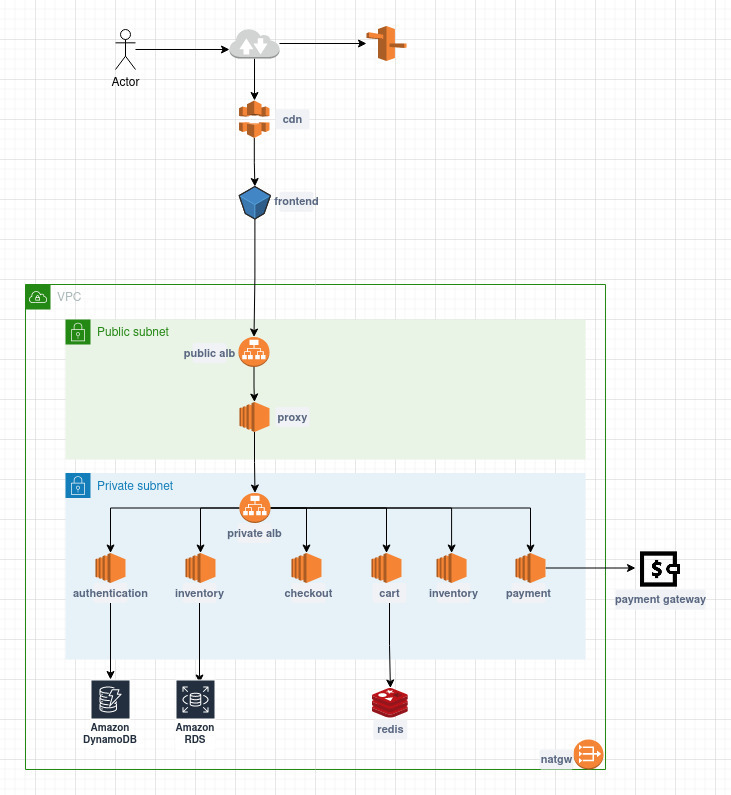
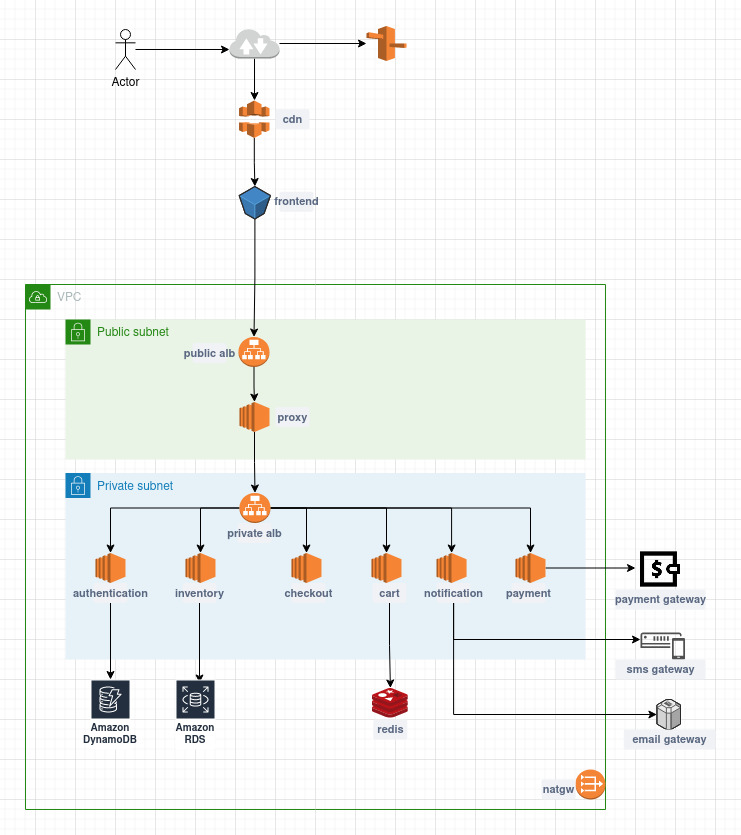
Descriptions and diagram added

diff --git a/test3/README.md b/test3/README.md
@@ -1,0 +1,92 @@
+Solution: A high available, fault tolerant and scalable cloud based solution for an e-commerce sit.
+Notations: AWS cloud resource notations are used. Cloud is prefereable as easy resource management,
+quick start, reliability, less troubleshooting. 
+
+Architecture description: (please lookinto the visual diagram as well for better understanding)
+
+VPC info:
+ There will be a vpc with 6 subnets, 3 will be private and rest 3 will be public where the selected region has 3 availibility zones. Each AZ should have one public and one private subnet. Cross zone
+ load balancing should be enabled for high availibility and reliability.
+
+
+App architecture:
+ There will be two segments of the main application, frontend and middlware. 
+
+ Frontend will be served by an S3 bucket with cloudfront in front of it. This will ensure faster
+ loading of the pages.
+
+The middleware should have in total 7 modules which will be served by 2 load balancers.
+ Modules:
+  - proxy
+  - authentication
+  - inventory
+  - checkout
+  - cart
+  - notification
+  - payment
+
+Public alb and proxy module will be in public subnets.
+The proxy module is responsible for forwarding teh requests to the private alb. Also there will be
+path based routing as well.
+
+Private alb and rest 5 modules will be in private subnets.
+Module descriptions:
+ authentication: It is responsible for authenticate an existing user or registering a new user. The
+ user info will be stored in dynamodb.
+ 
+ inventory: Will be managing the inventory by connecting the RDS, mainly CRUD operation. RDS will be served as the main inventory database.
+ 
+ checkout: Checkout is responsible for completing an e-commerce operation. It will call inventory module to update inventory, payment module to complete payment and notification module to notify the
+ user, may be email or sms etc.
+
+ cart: Will be managing carts, it will call redis to store the session.
+ 
+ notification: For sending email and sms notifications.
+
+ payment: For completing payments by connecting external payment gateways.
+
+Reliability/High availibity:
+ Load balancers are used for traffic distributions. It will be a aws autoscale based solution for high
+ availibility of the modules, which also ensures fault tolerancy and scalability as well.
+ A lot of managed services are used like RDS,dynamodb,redis for reliability and high performance.
+
+Cloud resource management: Infrastructure as code solution will be incorporated and for that
+'terraform' will be used. terreform is preferable as it is easy to use, easy to learn and lightweight.
+ Also an unique feature, terraform keeps a statefile to track the defined resources, it checks the cloud resources against the statefile before making any changes which sometimes helps to avoid anomalies. 
+
+CI/CD
+ Tool: jenkins. It is flexible, platform independant and easy to deploy.
+ Deployment strategy(In descending order):
+  Two seperate repo will be used for infra code and mw code. Different branches should be kept in 
+  infra repo for maintaining different env (prod, dev, stg etc), MW code will be checked out from a
+  release tag. Blue green deployment strategy will be followed. For rollback, terraform can be used
+  in a different rollback pipeline by maintaining launch template versions.
+  - In warmup stage both infra and mw code will be checked out.
+  - MW code will be built by appropriate tools.
+  -* Frontend built artifact will be pushed to S3.
+  - AMI will be built to deploy artifacts and for that 'packer' will be used where ansible will be 
+  used as the provisioner.
+  - Infra will be updated by terraform.
+  - Frontend artifacts will be pushed to S3 and old servers(ec2-instances) will be recycled.
+  - A notification can be sent.
+
+Monitoring:
+ Tools like newrelic can be used for monitoring solution. Both infra and application can be monitored
+ with newrelic. For newrelic monirting, the newrelic agent have to be installed in each module, which
+ can be easily configured by ansible.
+
+Logging: 
+ Cloudwatch can be used as a logging solution for both applications and the servers.
+
+Alerting: 
+ There are lots ways for alerting solutions, newrelic can be integrated in day to day used
+ communication medium like slack. Also aws lambda can be used with boto3 library to check
+ periodically if the infra is in desired state and send email/sms/slack notifications when needed,
+ also the lambda can be invoked by aws eventbridge on specific events.
+
+Secrets management: 
+ Secrets and configs can be easily managed by AWS Systems Manager (ssm), it is fairly easy while
+ using IAC. For example an RDS and an ssm paramter resource can be defined by terraform where the
+ endpoint of the rds will be the value of the ssm parameter. ssm parameters can be encrypted by kms
+ for better security which also can be managed by terraform without any manual intervention. In fact
+ rds, dynamodb data also can be encrypted with kms. 
